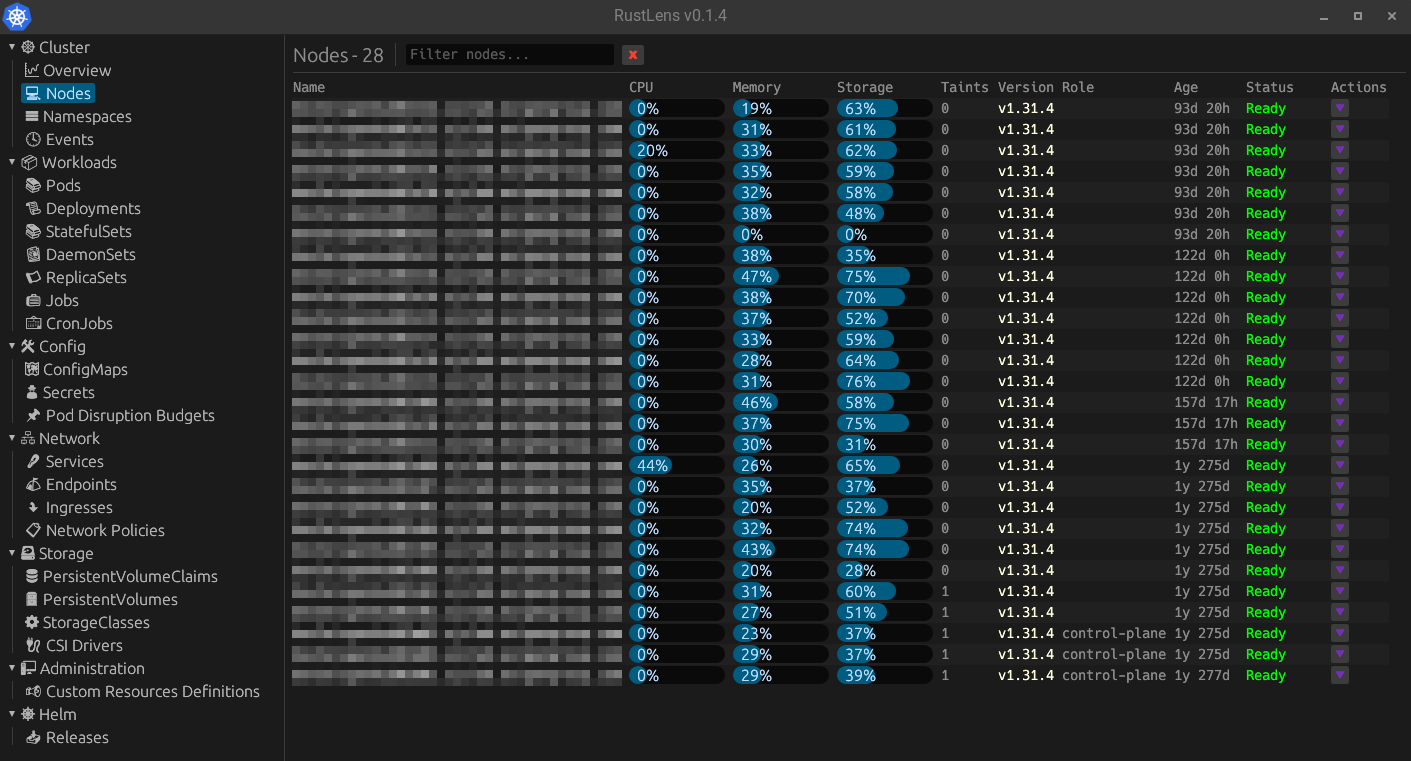
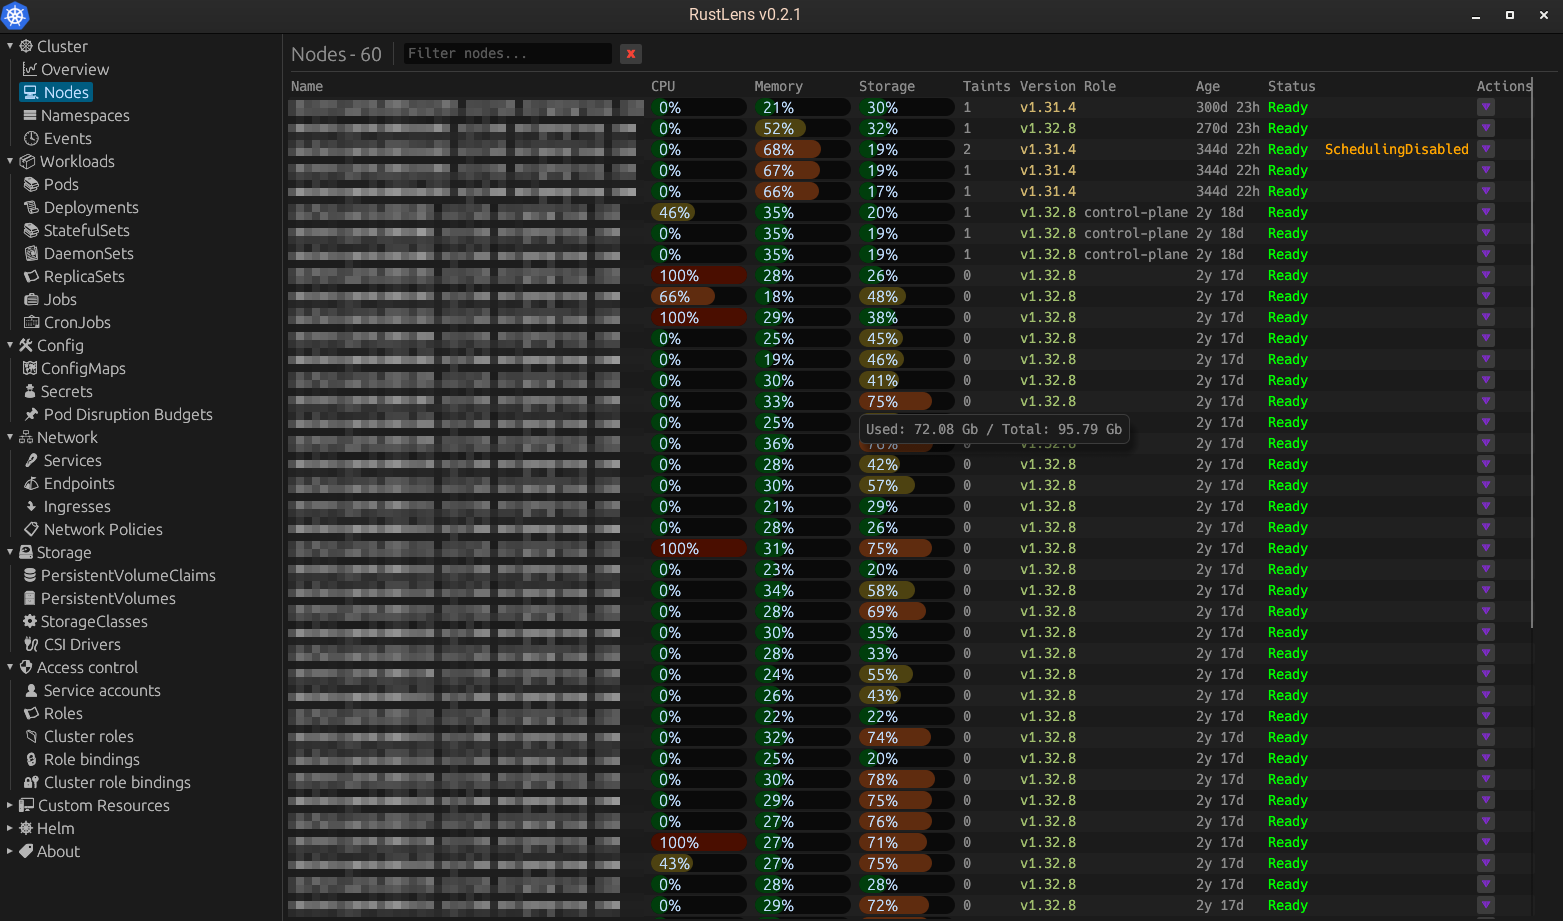
version v0.2.1

diff --git a/src/main.rs b/src/main.rs
@@ -2950,21 +2950,21 @@ async fn main() {
                                             }
                                             if let Some(p) = &item.cpu_percent {
                                                 let hover_text = format!("Used: {} / Total: {}", item.cpu_used.unwrap_or(0.0), item.cpu_total.unwrap_or(0.0));
-                                                ui.add(egui::ProgressBar::new(p / 100.0).show_percentage()).on_hover_text(hover_text);
+                                                ui.add(egui::ProgressBar::new(p / 100.0).fill(progress_color(*p)).show_percentage()).on_hover_text(hover_text);
                                             } else {
-                                                ui.add(egui::ProgressBar::new(0.0).show_percentage()).on_hover_text("Loading...");
+                                                ui.add(egui::ProgressBar::new(0.0).fill(progress_color(0.0)).show_percentage()).on_hover_text("Loading...");
                                             }
                                             if let Some(p) = &item.mem_percent {
                                                 let hover_text = format!("Used: {} Gb / Total: {} Gb", item.mem_used.unwrap_or(0.0), item.mem_total.unwrap_or(0.0));
-                                                ui.add(egui::ProgressBar::new(p / 100.0).show_percentage()).on_hover_text(hover_text);
+                                                ui.add(egui::ProgressBar::new(p / 100.0).fill(progress_color(*p)).show_percentage()).on_hover_text(hover_text);
                                             } else {
-                                                ui.add(egui::ProgressBar::new(0.0).show_percentage()).on_hover_text("Loading...");
+                                                ui.add(egui::ProgressBar::new(0.0).fill(progress_color(0.0)).show_percentage()).on_hover_text("Loading...");
                                             }
                                             if let Some(p) = &item.storage_percent {
                                                 let hover_text = format!("Used: {} Gb / Total: {} Gb", item.storage_used.unwrap_or(0.0), item.storage_total.unwrap_or(0.0));
-                                                ui.add(egui::ProgressBar::new(p / 100.0).show_percentage()).on_hover_text(hover_text);
+                                                ui.add(egui::ProgressBar::new(p / 100.0).fill(progress_color(*p)).show_percentage()).on_hover_text(hover_text);
                                             } else {
-                                                ui.add(egui::ProgressBar::new(0.0).show_percentage()).on_hover_text("Loading...");
+                                                ui.add(egui::ProgressBar::new(0.0).fill(progress_color(0.0)).show_percentage()).on_hover_text("Loading...");
                                             }
                                             if let Some(taints) = &item.taints {
                                                 let taints_list: String = taints

diff --git a/src/functions.rs b/src/functions.rs
@@ -79,6 +79,16 @@ pub async fn delete_zero_replicasets(client: Arc<Client>, ns: Option<String>) ->
     Ok(())
 }
 
+pub fn progress_color(p: f32) -> Color32 {
+    match p {
+        100.0.. => Color32::from_rgb(74, 14, 0), // red
+        90.0..=100.0 => Color32::from_rgb(74, 14, 0), // red
+        60.0..=90.0 => Color32::from_rgb(95, 44, 15), // orange
+        40.0..=60.0 => Color32::from_rgb(77, 66, 17), // yellow
+        _ => Color32::from_rgb(0, 62, 12), // green
+    }
+}
+
 pub fn compute_overview_stats(
     pods: &Vec<crate::watchers::PodItem>,
     deployments: &Vec<crate::watchers::DeploymentItem>,
@@ -345,6 +355,7 @@ pub fn open_logs_for_pod(pod_name: String, namespace: String, containers: Vec<cr
 
     let selected_container = containers.get(0).map(|c| c.name.clone()).unwrap_or_default();
     let buffer = Arc::new(Mutex::new(String::new()));
+    let prev_logs = logs.show_previous_logs;
 
     tokio::spawn(async move {
         crate::fetch_logs(
@@ -353,6 +364,7 @@ pub fn open_logs_for_pod(pod_name: String, namespace: String, containers: Vec<cr
             pod_name.as_str(),
             selected_container.as_str(),
             buffer,
+            prev_logs,
         )
         .await;
     });
@@ -721,10 +733,10 @@ pub async fn get_helm_releases(client: Arc<Client>, list: Arc<Mutex<Vec<HelmRele
     Ok(())
 }
 
-pub async fn fetch_logs(client: Arc<Client>, namespace: &str, pod_name: &str, container_name: &str, buffer: Arc<Mutex<String>>) {
+pub async fn fetch_logs(client: Arc<Client>, namespace: &str, pod_name: &str, container_name: &str, buffer: Arc<Mutex<String>>, previous_logs: bool) {
     let pods: Api<Pod> = Api::namespaced(client.as_ref().clone(), namespace);
 
-    let lp = &LogParams { tail_lines: Some(super::MAX_LOG_LINES as i64), container: Some(container_name.to_string()),..Default::default() };
+    let lp = &LogParams { previous: previous_logs, tail_lines: Some(super::MAX_LOG_LINES as i64), container: Some(container_name.to_string()),..Default::default() };
     match pods.logs(pod_name, lp).await {
         Ok(initial) => {
             buffer.lock().unwrap().clear();
@@ -735,7 +747,7 @@ pub async fn fetch_logs(client: Arc<Client>, namespace: &str, pod_name: &str, co
         Err(e) => eprintln!("failed to get initial logs: {:?}", e),
     }
 
-    let lp = &LogParams { follow: true, container: Some(container_name.to_string()), since_seconds: Some(1), ..Default::default() };
+    let lp = &LogParams { follow: true, previous: previous_logs, container: Some(container_name.to_string()), since_seconds: Some(1), ..Default::default() };
     let mut log_lines = pods.log_stream(pod_name, lp)
         .await
         .unwrap()

diff --git a/src/ui/logs.rs b/src/ui/logs.rs
@@ -12,6 +12,7 @@ pub struct LogWindow {
     pub buffer: Arc<Mutex<String>>,
     pub last_container: Option<String>,
     pub export_message: Option<(String, Instant)>,
+    pub show_previous_logs: bool,
 }
 
 impl LogWindow {
@@ -25,6 +26,7 @@ impl LogWindow {
             buffer: Arc::new(Mutex::new(String::new())),
             last_container: None,
             export_message: None,
+            show_previous_logs: false,
         }
     }
 }
@@ -42,6 +44,25 @@ pub fn show_log_window(ctx: &Context, log_window: &mut LogWindow, client: Arc<Cl
                     );
                 }
             });
+            ui.separator();
+            if ui.checkbox(&mut log_window.show_previous_logs, "Logs from previous stopped container").changed() {
+                log_window.last_container = Some(log_window.selected_container.clone());
+                log_window.buffer = Arc::new(Mutex::new(String::new()));
+
+                let buf_clone = Arc::clone(&log_window.buffer);
+                let cur_ns = log_window.namespace.clone();
+                let cur_pod = log_window.pod_name.clone();
+                let cur_container = log_window.selected_container.clone();
+                let prev_logs = log_window.show_previous_logs.clone();
+                let client_clone = Arc::clone(&client);
+
+                tokio::spawn(async move {
+                    crate::fetch_logs(client_clone,
+                    &cur_ns,
+                        &cur_pod,
+                    &cur_container, buf_clone, prev_logs).await;
+                });
+            }
             ui.separator();
             if ui.button("💾 Export to file").clicked() {
                 if let Ok(logs) = log_window.buffer.lock() {
@@ -91,12 +112,13 @@ pub fn show_log_window(ctx: &Context, log_window: &mut LogWindow, client: Arc<Cl
             let cur_ns = log_window.namespace.clone();
             let cur_pod = log_window.pod_name.clone();
             let cur_container = log_window.selected_container.clone();
+            let prev_logs = log_window.show_previous_logs.clone();
             let client_clone = Arc::clone(&client);
             tokio::spawn(async move {
                 crate::fetch_logs(client_clone,
                 &cur_ns,
                     &cur_pod,
-                &cur_container, buf_clone).await;
+                &cur_container, buf_clone, prev_logs).await;
             });
         }
 

diff --git a/README.md b/README.md
@@ -3,6 +3,9 @@ Project in a progress!
 
 It's a free and open-source user interface designed for managing Kubernetes clusters
 
+## Overview
+![screenshot](screenshots/overview.png)
+
 ## Nodes
 ![screenshot](screenshots/nodes.png)
 
